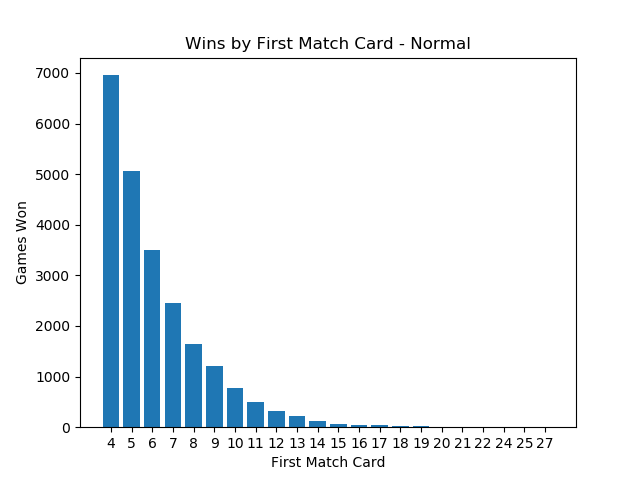
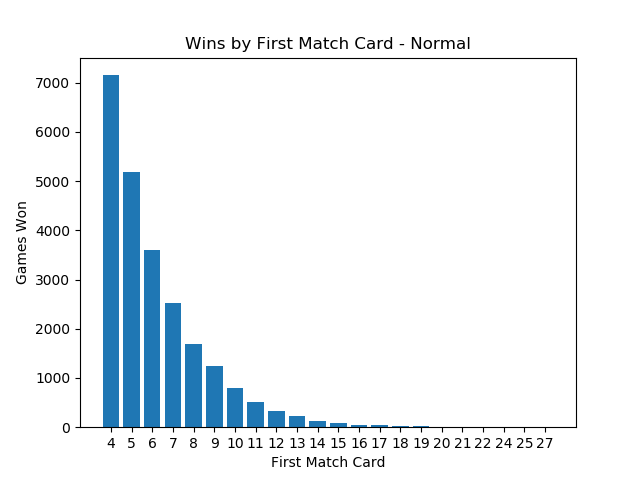
Daily stats

diff --git a/stats/stats.md b/stats/stats.md
@@ -1,4 +1,4 @@
 | Game Type | Games Played | Wins | Win Percentage |
 | --------- |:------------:|:----:|:--------------:|
-| Normal  | 4,387,135 | 23,008 | 0.52% |
-| Reverse  | 4,387,135 | 227,724 | 5.19% |
+| Normal  | 4,497,135 | 23,601 | 0.52% |
+| Reverse  | 4,497,135 | 233,564 | 5.19% |
